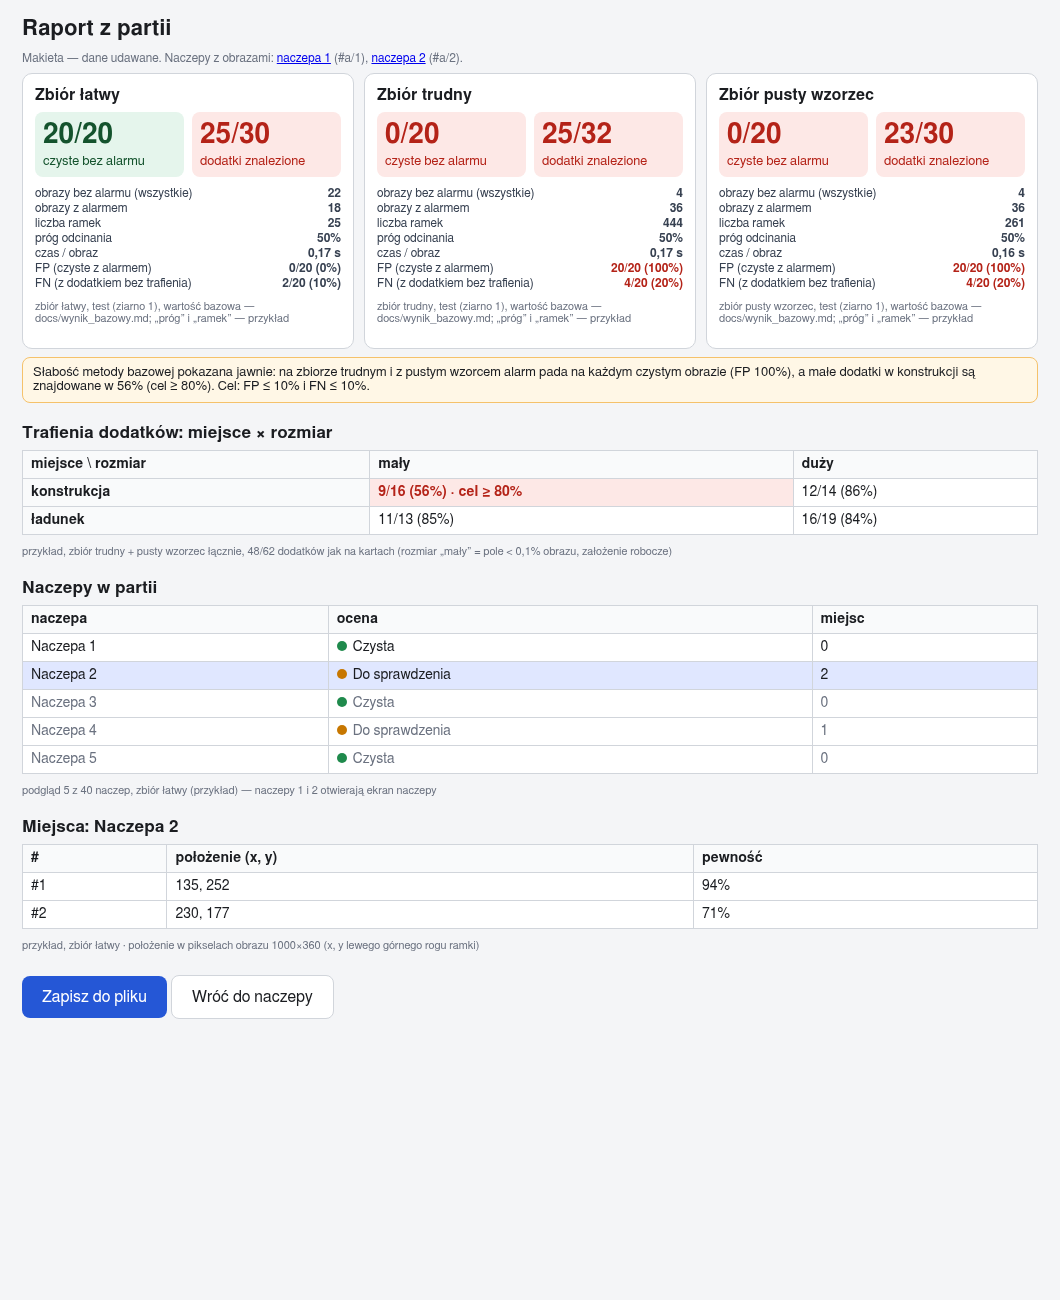
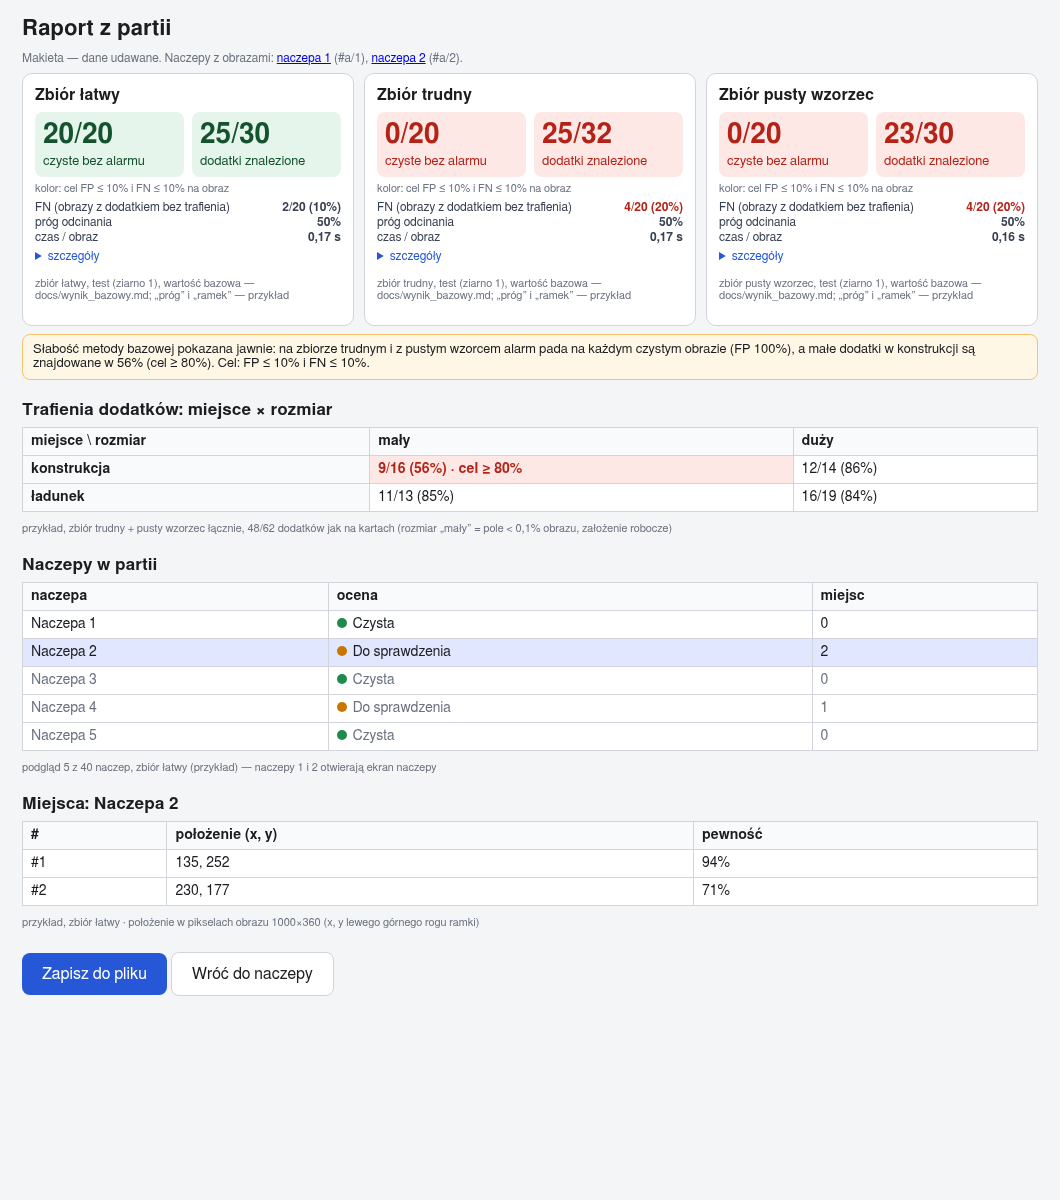
makieta R4: kolor dodatków z celu FN, szczegóły zwijane, zrzut czystej naczepy

Changed region(s): [[0.0, 0.0, 0.9962, 0.8325], [0.6538, 0.6475, 0.716, 0.74]]

diff --git a/makieta/index.html b/makieta/index.html
@@ -37,6 +37,8 @@
   .glowne strong { display:block; font-size:28px; line-height:1.1; font-variant-numeric:tabular-nums; }
   .glowne span { font-size:13px; }
   .glowne .zle { background:#fde8e6; } .glowne .dobrze { background:#e5f5ec; color:#14532d; }
+  .cel { font-size:11px; color:var(--szary); margin:-4px 0 6px; }
+  details { margin-top:6px; font-size:12px; } summary { cursor:pointer; color:#2557d6; margin-bottom:4px; }
   td.zle { background:#fde8e6; font-weight:700; }
   tr.bez td { color:var(--szary); }
   .liczby b { text-align:right; font-variant-numeric:tabular-nums; }
@@ -141,17 +143,18 @@ function rysujB() {
   document.getElementById("b-zbiory").innerHTML = ZBIORY.map(z => `
     <div class="karta"><h3>Zbiór ${z.nazwa}</h3>
       <div class="glowne">
-        <div class="${(z.fp[1]-z.fp[0])/z.fp[1]>=0.9?"dobrze":"zle"}"><strong>${z.fp[1]-z.fp[0]}/${z.fp[1]}</strong><span>czyste bez alarmu</span></div>
-        <div class="${z.traf[0]/z.traf[1]>=0.9?"dobrze":"zle"}"><strong>${z.traf[0]}/${z.traf[1]}</strong><span>dodatki znalezione</span></div>
-      </div><div class="liczby">
+        <div class="${z.fp[0]/z.fp[1]<=0.1?"dobrze":"zle"}" title="cel: FP ≤ 10% na obraz"><strong>${z.fp[1]-z.fp[0]}/${z.fp[1]}</strong><span>czyste bez alarmu</span></div>
+        <div class="${z.fn[0]/z.fn[1]<=0.1?"dobrze":"zle"}" title="kolor: cel FN ≤ 10% na obraz"><strong>${z.traf[0]}/${z.traf[1]}</strong><span>dodatki znalezione</span></div>
+      </div><p class="cel">kolor: cel FP ≤ 10% i FN ≤ 10% na obraz</p><div class="liczby">
+      <span>FN (obrazy z dodatkiem bez trafienia)</span><b class="${z.fn[0]/z.fn[1]>0.1?"zle":""}">${proc(z.fn)}</b>
+      <span>próg odcinania</span><b>${PROG}%</b>
+      <span>czas / obraz</span><b>${z.czas.toFixed(2).replace(".",",")} s</b>
+    </div><details><summary>szczegóły</summary><div class="liczby">
+      <span>FP (czyste z alarmem)</span><b class="${z.fp[0]/z.fp[1]>0.1?"zle":""}">${proc(z.fp)}</b>
       <span>obrazy bez alarmu (wszystkie)</span><b>${z.bez}</b>
       <span>obrazy z alarmem</span><b>${z.z}</b>
       <span>liczba ramek</span><b>${z.ramek}</b>
-      <span>próg odcinania</span><b>${PROG}%</b>
-      <span>czas / obraz</span><b>${z.czas.toFixed(2).replace(".",",")} s</b>
-      <span>FP (czyste z alarmem)</span><b class="${z.fp[0]/z.fp[1]>0.1?"zle":""}">${proc(z.fp)}</b>
-      <span>FN (z dodatkiem bez trafienia)</span><b class="${z.fn[0]/z.fn[1]>0.1?"zle":""}">${proc(z.fn)}</b>
-    </div><p class="podpis">zbiór ${z.nazwa}, test (ziarno 1), wartość bazowa — docs/wynik_bazowy.md; „próg” i „ramek” — przykład</p></div>`).join("");
+    </div></details><p class="podpis">zbiór ${z.nazwa}, test (ziarno 1), wartość bazowa — docs/wynik_bazowy.md; „próg” i „ramek” — przykład</p></div>`).join("");
   const kom = (m,r) => { const [a,b] = TABELA[m][r], p = Math.round(100*a/b), cel = m==="konstrukcja" && r==="maly";
     return `<td class="${cel && p<80 ? "zle" : ""}">${a}/${b} (${p}%)${cel ? " · cel ≥ 80%" : ""}</td>`; };
   document.getElementById("b-tabela").innerHTML = `<tr><th>miejsce \\ rozmiar</th><th>mały</th><th>duży</th></tr>
